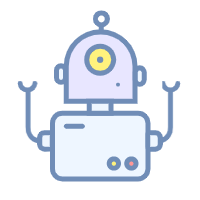
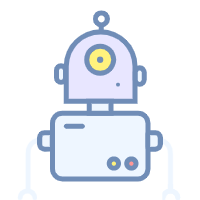
add cover

Changed region(s): [[0.09, 0.39, 0.21, 0.72], [0.81, 0.39, 0.9, 0.72]]

diff --git a/src/index.js b/src/index.js
@@ -17,6 +17,7 @@ const airRate = 30;
 
 let mouseX = 0;
 let mouseY = 0;
+let gameStarted = false;
 
 const waves = new Waves();
 const trashs = new Trashs();
@@ -43,7 +44,7 @@ function init() {
   trashs.init({ canvasWidth, canvasHeight });
   dusts.init(ctx, { canvasWidth, canvasHeight, oceanDeepth });
   bubbles.init(ctx, kelps.kelpList, oceanDeepth);
-  background.init(ctx,{canvasWidth, canvasHeight, airRate});
+  background.init(ctx, { canvasWidth, canvasHeight, airRate });
 
   fishManager = new FishManager(ctx, canvasWidth, canvasHeight)
 
@@ -66,7 +67,7 @@ function loopDraw(ctx, { canvasWidth, canvasHeight }) {
 function animate(gapTime) {
   background.draw();
   waves.draw();
-  hands.draw(gapTime);
+  gameStarted && hands.draw(gapTime);
   let bubblePointList = [];
   kelps.kelpList.forEach(item => {
     item.draw()
@@ -75,7 +76,7 @@ function animate(gapTime) {
       y: item.quadraticEndY
     })
   });
-  fishManager.update()
+  gameStarted && fishManager.update()
   trashs.draw(gapTime);
   robot.draw(gapTime, { mouseX, mouseY });
   robot.collectTrashs();
@@ -95,6 +96,12 @@ function initCanvas(canvas) {
 function addEvent(canvas) {
   canvas.addEventListener('mousemove', handleMousemove, false);
   canvas.addEventListener('touchmove', handleTouchmove, false);
+
+  const startDom = document.getElementById('start');
+  startDom.onclick = () => {
+    startDom.parentNode.classList.add("hide");
+    gameStarted = true;
+  }
 }
 
 function handleMousemove(e) {

diff --git a/src/css/index.scss b/src/css/index.scss
@@ -5,14 +5,11 @@ html {
 }
 
 .wrapper {
-  font-size: 0;
   position: relative;
   height: 100vh;
   overflow: hidden;
   max-width: 700px;
   margin: 0 auto;
-  background: url("../images/bg.png");
-  background-size: 100% 100%;
 }
 
 #canvas {
@@ -20,4 +17,36 @@ html {
   left: 0;
   top: 0;
   z-index: 20;
+}
+
+.game-start {
+  color: #fff;
+  position: absolute;
+  z-index: 100;
+  top: 0;
+  left: 0;
+  right: 0;
+  bottom: 0;
+  background: rgba(0, 0, 0, 0.3);
+  // background: url(./img/cover.png) no-repeat center;
+  // background-size: cover;
+}
+
+.game-start-button {
+  position: absolute;
+  bottom: 20%;
+  left: 50%;
+  font-size: 20px;
+  background: #fff;
+  color: #d42e2e;
+  font-weight: bold;
+  padding: 10px 30px;
+  border-radius: 5px;
+  transform: translateX(-50%);
+  box-shadow: 0 0 8px rgb(41 18 18 / 50%);
+  cursor: pointer;
+}
+
+.hide {
+  display: none !important;
 }

diff --git a/src/robot.js b/src/robot.js
@@ -46,12 +46,12 @@ class Robot {
     ctx.translate(this.x, this.y);
     // ctx.rotate(this.angle);
 
-    this.curTimeset += gapTime;
-    if (this.curTimeset % 100 > 60) {
-      this.curIndex = (curIndex + 1) % 2;
-    }
+    // this.curTimeset += gapTime;
+    // if (this.curTimeset % 100 > 60) {
+    //   this.curIndex = (curIndex + 1) % 2;
+    // }
 
-    this.ctx.drawImage(this.imageList[this.curIndex], 18, 11, 170, 188, 0, 0, 170 * 0.5, 188 * 0.5);
+    this.ctx.drawImage(this.imageList[this.curIndex], 18, 11, 170, 188, 0, 0, 170 * 0.4, 188 * 0.4);
     ctx.restore();
   }
 

diff --git a/src/trashs.js b/src/trashs.js
@@ -116,7 +116,13 @@ class Trashs {
   }
 
   draw(gapTime) {
-    // this.list = this.list.filter(item => item.x > 0 && item.x < this.canvasWidth);
+    // filter trash which is out of boundary.
+    this.list = this.list.filter(item => {
+      const { imageProperty: { imageWidth, scale } } = item;
+
+      return !item.startX || (item.x > 0 && item.x < this.canvasWidth - imageWidth * scale)
+    });
+
     this.list.forEach(item => item.startX && item.startY && item.drop(gapTime));
   }
 }

diff --git a/index.html b/index.html
@@ -8,6 +8,12 @@
   </head>
   <body>
     <div class="wrapper">
+      <div class="game-start">
+        <h1>Ocean Clean Up</h1>
+        <p>I'm the robot which is created by idealist</p>
+        <p>To clean ocean garbage up, to protect the blue planet</p>
+        <div id="start" class="game-start-button">Start</div>
+      </div>
       <canvas id="canvas"></canvas>
     </div>
   </body>
